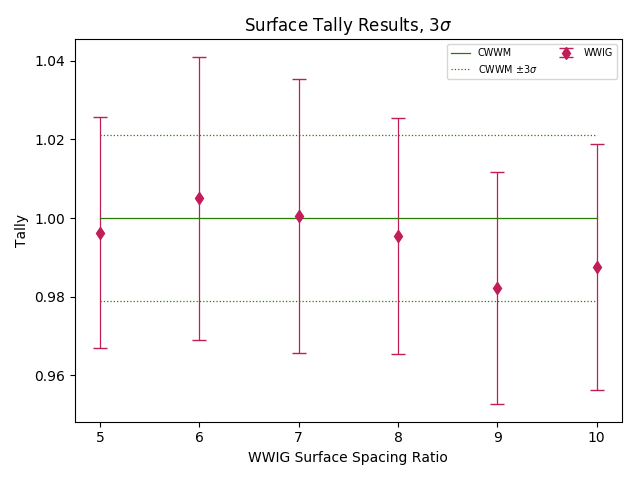
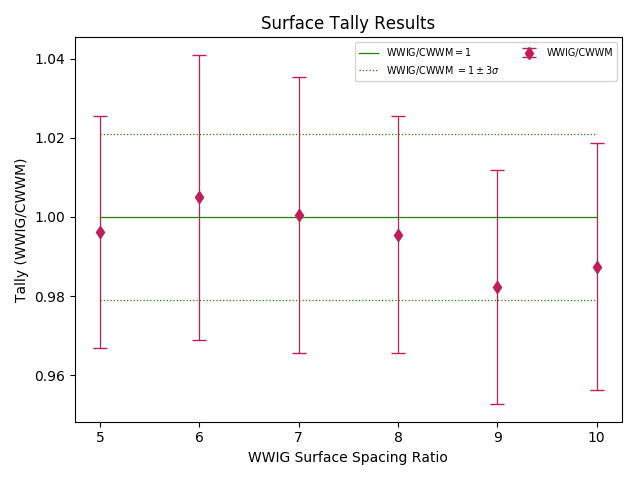
fixed errors in plot formatting

diff --git a/performance-analysis/analysis/plot_tally_data.py b/performance-analysis/analysis/plot_tally_data.py
@@ -98,19 +98,19 @@ def plot_tally_cwwm(df_output, refinement, df_measure=None, pltratio=True,
 
     plt.errorbar(tally_vals[measurement], y, yerr=yerr,
                  marker=markers['wwig'], lw=lw, capsize=cs, ls='',
-                 color=colors['wwig'], label='WWIG')
+                 color=colors['wwig'], label='WWIG/CWWM')
 
     plt.plot([xmin, xmax], ref_tally_plt,
-             color=colors['cwwm'], ls='-', lw=lw, label='CWWM')
+             color=colors['cwwm'], ls='-', lw=lw, label='WWIG/CWWM$= 1$')
     plt.plot([xmin, xmax], ref_sigma_plt_n,
              color=colors['cwwm'], ls=':', lw=lw,
-             label='CWWM $\pm {} \sigma$'.format(n_sigma))
+             label='WWIG/CWWM $=1 \pm {} \sigma$'.format(n_sigma))
     plt.plot([xmin, xmax], ref_sigma_plt_p,
              color=colors['cwwm'], ls=':', lw=lw, label='')
 
     # labels
-    ylabel = 'Tally'
-    title = 'Surface Tally Results, ${}\sigma$'.format(n_sigma)
+    ylabel = 'Tally (WWIG/CWWM)'
+    title = 'Surface Tally Results'
     plt.title(title)
     plt.xlabel(xlabel)
     plt.ylabel(ylabel)
@@ -238,24 +238,24 @@ def plot_tally(df_output, refinement, df_measure=None, pltratio=True,
 
     plt.errorbar(tally_vals[measurement], y, yerr=yerr,
                  marker=markers['wwig'], lw=lw, capsize=cs, ls='',
-                 color=colors['wwig'], label='WWIG')
+                 color=colors['wwig'], label='WWIG/Ref')
     plt.errorbar([xmax], cwwm_y, yerr=y_cwwm_err,
                  marker=markers['cwwm'], lw=lw, capsize=cs, ls='',
-                 color=colors['cwwm'], label='CWWM')
+                 color=colors['cwwm'], label='CWWM/Ref')
     plt.errorbar([xmax], ana_y, yerr=y_ana_err,
                  marker=markers['analog'], lw=lw, capsize=cs, ls='',
-                 color=colors['analog'], label='Analog')
+                 color=colors['analog'], label='Analog/Ref')
     plt.plot([xmin, xmax], ref_tally_plt,
-             color=colors['reference'], ls='-', lw=lw, label='Reference')
+             color=colors['reference'], ls='-', lw=lw, label='E/Ref$=1$')
     plt.plot([xmin, xmax], ref_sigma_plt_n,
              color=colors['reference'], ls=':', lw=lw,
-             label='Reference $\pm {} \sigma$'.format(n_sigma))
+             label='E/Ref $\pm {} \sigma$'.format(n_sigma))
     plt.plot([xmin, xmax], ref_sigma_plt_p,
              color=colors['reference'], ls=':', lw=lw, label='')
 
     # labels
-    ylabel = 'Tally'
-    title = 'Surface Tally Results, ${}\sigma$'.format(n_sigma)
+    ylabel = 'Tally (Experimental/Reference)'
+    title = 'Surface Tally Results'
     plt.title(title)
     plt.xlabel(xlabel)
     plt.ylabel(ylabel)
@@ -304,26 +304,30 @@ def plot_ww_efficiency(df_output, refinement, df_measure=None):
     ax[0][0].plot(df_wwig[measurement], df_wwig['WW check efficiency'],
                   marker=markers['wwig'], ls='',
                   label='WWIG', color=colors['wwig'])
-    ax[0][0].set_title('Total WW Efficiency', fontsize='small')
+    ax[0][0].set_title('Overall Efficiency')
+    ax[0][0].set_ylabel('$\eta_{ww}$')
 
     ax[0][1].plot(df_wwig[measurement], df_wwig['Splits < C_u'],
                   marker=markers['wwig'], ls='', label='',
                   color=colors['wwig'])
-    ax[0][1].set_title('$N_{splits}$ < C_u', fontsize='small')
+    ax[0][1].set_title('$S_{< C_u}$')
+    ax[0][1].set_ylabel('$f_{< C_U}$')
 
     ax[1][0].plot(df_wwig[measurement], df_wwig['Splits = C_u'],
                   marker=markers['wwig'], ls='', label='',
                   color=colors['wwig'])
-    ax[1][0].set_title('$N_{splits}$ = C_u', fontsize='small')
+    ax[1][0].set_title('$S_{= C_u}$')
+    ax[1][0].set_ylabel('$f_{= C_U}$')
 
     ax[1][1].plot(df_wwig[measurement], df_wwig['Splits > C_u'],
                   marker=markers['wwig'], ls='', label='',
                   color=colors['wwig'])
-    ax[1][1].set_title('$N_{splits}$ > C_u', fontsize='small')
+    ax[1][1].set_title('$S_{> C_u}$')
+    ax[1][1].set_ylabel('$f_{> C_U}$')
 
     if df_measure is None:
         # also plot cwwm results
-        xmax = max(df_wwig[output_key]) * 1.1
+        xmax = max(df_wwig[output_key])
         xmin = min(df_wwig[output_key])
         df_cwwm = df_output.loc[df_output['mode'] == 'cwwm']
         cwwm_ww = np.full(2, float(df_cwwm['WW check efficiency']))
@@ -342,12 +346,11 @@ def plot_ww_efficiency(df_output, refinement, df_measure=None):
                    fontsize='x-small')
 
     # labels
-    ylabel = 'Efficiency'
     title = 'Weight Window Efficiency'
-    fig.suptitle(title)
-    fig.text(0.01, 0.5, ylabel, va='center', rotation='vertical')
+    fig.suptitle(title, fontsize='x-large')
+    #fig.text(0.01, 0.5, ylabel, va='center', rotation='vertical')
     fig.text(0.5, 0.01, xlabel, ha='center')
-    plt.tight_layout(pad=2.7, w_pad=.5)
+    plt.tight_layout(pad=2.7, w_pad=1.0)
 
     save_name = 'images/ww_efficiency_{}.png'.format(refinement)
     plt.savefig(save_name)
@@ -400,7 +403,7 @@ def plot_fom(df_output, df_measure, refinement):
     plt.savefig(save_name)
 
 
-def plot_ratio(df_output):
+def plot_fom_ratio(df_output):
 
     # get the output data for total tally
     df = df_output.loc[df_output['ratio'].notnull()][
@@ -454,10 +457,7 @@ def plot_relative_error(df_output, refinement, df_measure=None):
     ana_err = df_output.loc[df_output['mode'] ==
                             'analog'][['error total', 'vov']]
     # get error of relative error
-    sigma_r = ref_err['vov']**0.5 * ref_err['error total']
-    ref_err_plt = np.full(2, float(ref_err['error total']))
-    ref_vov_p = np.full(2, ref_err['error total'] + sigma_r)
-    ref_vov_m = np.full(2, ref_err['error total'] - sigma_r)
+    ref_err['vov error'] = ref_err['vov']**0.5 * ref_err['error total']
     cwwm_err['vov error'] = cwwm_err['vov']**0.5 * cwwm_err['error total']
     ana_err['vov error'] = ana_err['vov']**0.5 * ana_err['error total']
 
@@ -482,20 +482,15 @@ def plot_relative_error(df_output, refinement, df_measure=None):
     else:
         ext = 1.1
     xmax = max(wwig_err[measurement]) * ext
-    xmin = min(wwig_err[measurement])
 
-    plt.plot([xmin, xmax], ref_err_plt,
-             color=colors['reference'], ls='-', lw=lw, label='Reference')
-    plt.plot([xmin, xmax], ref_vov_m,
-             color=colors['reference'], ls=':', lw=lw,
-             label='Reference $\pm$ VOV')
-    plt.plot([xmin, xmax], ref_vov_p,
-             color=colors['reference'], ls=':', lw=lw, label='')
     plt.errorbar(wwig_err[measurement], wwig_err['error total'],
                  yerr=wwig_err['vov error'],
                  marker=markers['wwig'],
                  color=colors['wwig'], ls='', lw=lw, capsize=cs,
                  label='WWIG')
+    plt.errorbar([xmax], ref_err['error total'], yerr=ref_err['vov error'],
+                 color=colors['reference'], ls='-', lw=lw, label='Reference',
+                 marker=markers['reference'], capsize=cs)
     plt.errorbar([xmax], cwwm_err['error total'], yerr=cwwm_err['vov error'],
                  color=colors['cwwm'], ls='-', lw=lw, label='CWWM',
                  marker=markers['cwwm'], capsize=cs)
@@ -589,11 +584,11 @@ if __name__ == '__main__':
     # plot fom vs coarseness / coarseness
     plot_fom(df_output, df_coarse, 'coarseness')
     plot_fom(df_output, df_rough, 'roughness')
-    plot_ratio(df_output)
+    plot_fom_ratio(df_output)
 
     # plot relative error for surface tally
     plot_relative_error(df_output, 'ratio')
     plot_relative_error(df_output, 'coarseness', df_measure=df_coarse)
     plot_relative_error(df_output, 'roughness', df_measure=df_rough)
 
-    plt.show()
+    #plt.show()
